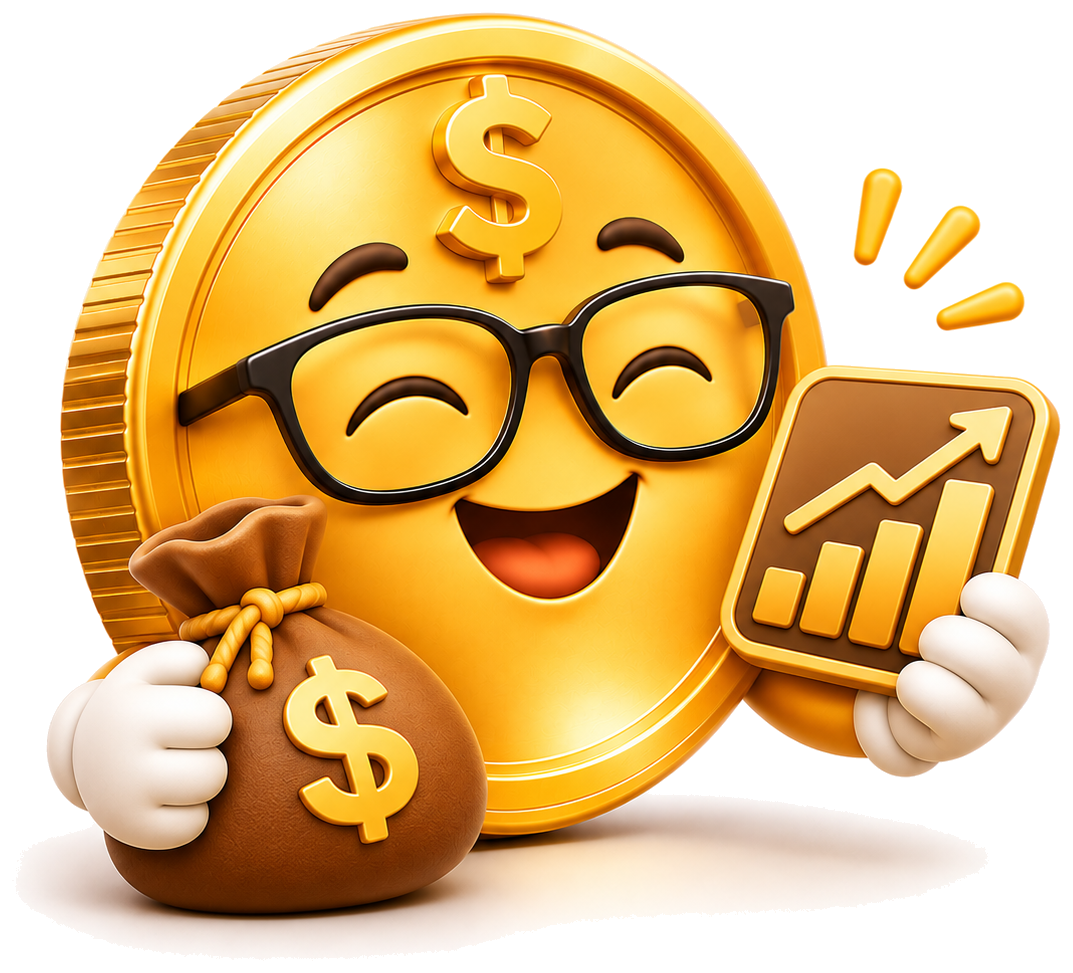
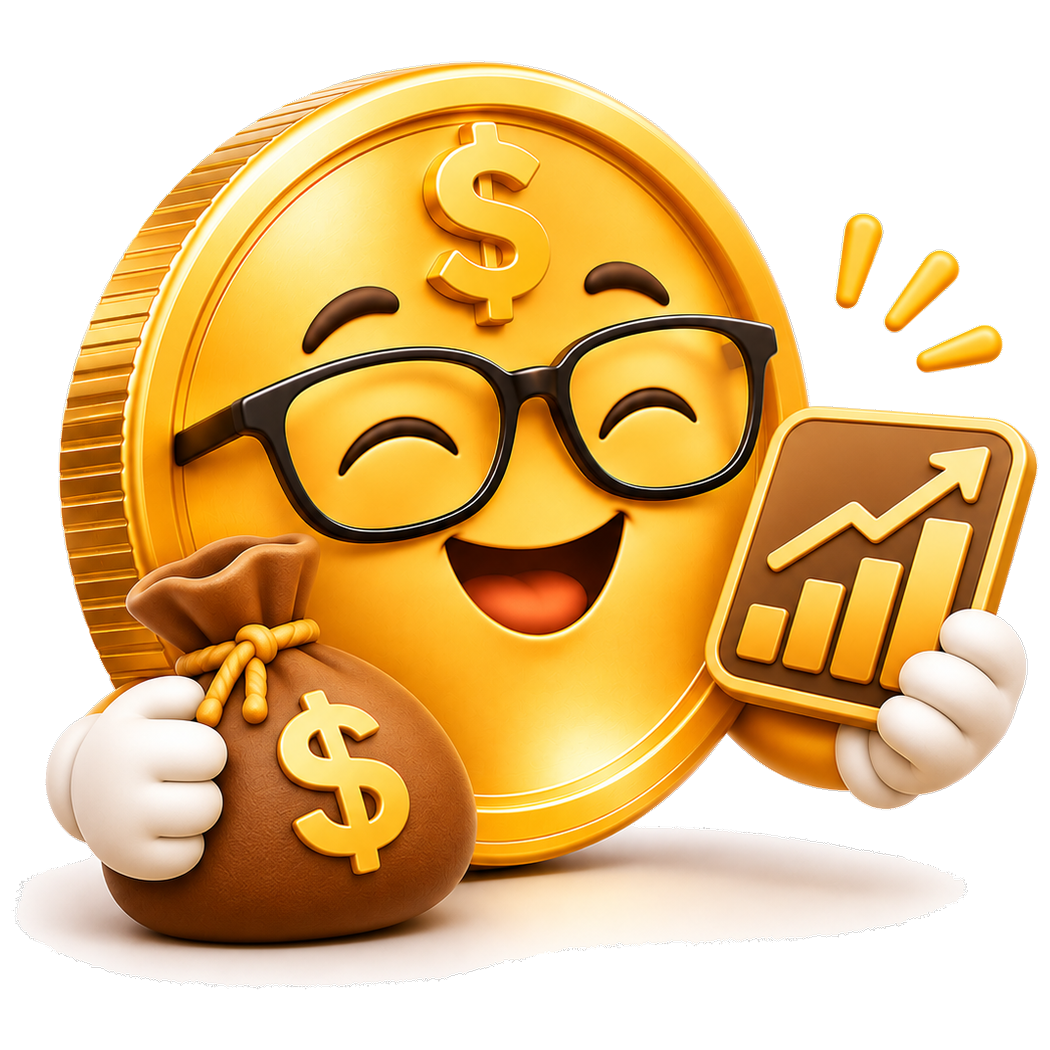
Simplify Money Tips card, shrink page footer, color home balance
Money Tips:
- Removed the footer nav bar entirely (prev arrow + dots) — clicking
  the card is now the only way to advance, kept simpler per request.
- Autoplay interval bumped from 5s to 12s.
- Card background changed to light beige (#faf6ef) instead of white.
- Normalized all 5 mascot icons onto identical 1050x1050 canvases
  so they render at consistent visual scale across cards instead of
  varying with each source image's original aspect ratio.

Footer: reduced padding further (including a forgotten mobile
@media override that was reverting it to a much taller 2.5rem), and
matched its background to the page background instead of a slightly
different off-white, removing any visible seam.

Daily Spending chart: increased right padding again (40 -> 52) to
shift it further left per follow-up request.

Home page: Balance tile value now colors green when positive, red
when negative, matching the pattern used elsewhere in the app.

diff --git a/index.js b/index.js
@@ -178,7 +178,13 @@ function renderHomeBalance(transactions) {
   const monthTx = transactions.filter(tx => (tx.date || '').slice(0, 7) === month);
   const income   = monthTx.filter(tx => tx.type === 'income').reduce((s, tx) => s + Number(tx.amount), 0);
   const expenses = monthTx.filter(tx => tx.type === 'expense').reduce((s, tx) => s + Number(tx.amount), 0);
-  document.getElementById('home-tile-balance-val').textContent  = fmtCurrency(income - expenses);
+  const balance  = income - expenses;
+
+  const balanceEl = document.getElementById('home-tile-balance-val');
+  balanceEl.textContent = fmtCurrency(balance);
+  balanceEl.classList.toggle('positive', balance > 0);
+  balanceEl.classList.toggle('negative', balance < 0);
+
   document.getElementById('home-tile-expenses-val').textContent = fmtCurrency(expenses);
 }
 
@@ -475,7 +481,7 @@ async function renderDailySpendingChart(transactions, investments) {
     options: {
       responsive: true,
       maintainAspectRatio: false,
-      layout: { padding: { top: 60, right: 40 } },
+      layout: { padding: { top: 60, right: 52 } },
       interaction: { mode: 'index', intersect: false },
       animation: { duration: 600, easing: 'easeOutQuart' },
       plugins: {
@@ -773,14 +779,8 @@ function pickRandomMoneyTips() {
 }
 
 const MONEY_TIP_MASCOTS = [mtMascot1, mtMascot2, mtMascot3, mtMascot4, mtMascot5];
-const MONEY_TIPS_AUTOPLAY_MS = 5000;
+const MONEY_TIPS_AUTOPLAY_MS = 12000;
 let moneyTipsAutoplayTimer = null;
-
-function renderMoneyTipDots() {
-  document.getElementById('mt-dots').innerHTML = currentMoneyTips.map((_, i) =>
-    `<span class="mt-dot${i === currentMoneyTipIdx ? ' active' : ''}" data-idx="${i}"></span>`
-  ).join('');
-}
 
 function renderMoneyTip() {
   const tip = currentMoneyTips[currentMoneyTipIdx];
@@ -789,7 +789,6 @@ function renderMoneyTip() {
   document.getElementById('mt-text').textContent = tip.text;
   document.getElementById('mt-callout-text').textContent = tip.callout;
   document.getElementById('mt-art-img').src = MONEY_TIP_MASCOTS[currentMoneyTipIdx % MONEY_TIP_MASCOTS.length];
-  renderMoneyTipDots();
 
   // Re-trigger the slide-in animation on every tip change (not just once on load).
   // Animates .mt-card-top as a single unit so the text and art slide together.
@@ -812,11 +811,6 @@ function advanceMoneyTip() {
   renderMoneyTip();
 }
 
-function goToMoneyTip(idx) {
-  currentMoneyTipIdx = (idx + currentMoneyTips.length) % currentMoneyTips.length;
-  renderMoneyTip();
-}
-
 function restartMoneyTipsAutoplay() {
   if (moneyTipsAutoplayTimer) clearInterval(moneyTipsAutoplayTimer);
   moneyTipsAutoplayTimer = setInterval(advanceMoneyTip, MONEY_TIPS_AUTOPLAY_MS);
@@ -828,21 +822,7 @@ function initMoneyTips() {
   renderMoneyTip();
   restartMoneyTipsAutoplay();
 
-  document.getElementById('mt-prev').addEventListener('click', e => {
-    e.stopPropagation(); // don't also trigger the card's click-to-advance below
-    goToMoneyTip(currentMoneyTipIdx - 1);
-    restartMoneyTipsAutoplay();
-  });
-
-  document.getElementById('mt-dots').addEventListener('click', e => {
-    const dot = e.target.closest('.mt-dot');
-    if (!dot) return;
-    e.stopPropagation();
-    goToMoneyTip(Number(dot.dataset.idx));
-    restartMoneyTipsAutoplay();
-  });
-
-  // Clicking anywhere else on the card skips ahead to the next tip.
+  // Clicking the card skips ahead to the next tip.
   document.getElementById('mt-card').addEventListener('click', () => {
     advanceMoneyTip();
     restartMoneyTipsAutoplay();

diff --git a/style.css b/style.css
@@ -2254,13 +2254,13 @@ footer .logo-img {
 
 /* === Footer === */
 footer {
-  background: #f5f5f7;
-  padding: 1.5rem 2rem;
+  background: var(--bg);
+  padding: 1rem 2rem;
   text-align: center;
   display: flex;
   flex-direction: column;
   align-items: center;
-  gap: 0.6rem;
+  gap: 0.4rem;
 }
 
 .footer-tagline {
@@ -5651,7 +5651,7 @@ input[type="date"].filter-date {
 
   /* Footer */
   footer {
-    padding: 2.5rem 1.25rem;
+    padding: 1rem 1.25rem;
   }
   .footer-tagline {
     font-size: 0.85rem;
@@ -8510,6 +8510,8 @@ input[type="date"].filter-date {
 .home-tile-chevron { color: var(--muted); flex-shrink: 0; }
 .home-tile-chevron svg { width: 16px; height: 16px; }
 .home-tile-value { font-size: 1.45rem; font-weight: 800; color: var(--heading); letter-spacing: -0.02em; }
+.home-tile-value.positive { color: #1a9a4a; }
+.home-tile-value.negative { color: #d8402e; }
 .home-tile-sub { font-size: 0.78rem; font-weight: 700; }
 .home-tile-sub.positive { color: #1a9a4a; }
 .home-tile-sub.negative { color: #d8402e; }
@@ -8595,7 +8597,7 @@ input[type="date"].filter-date {
 }
 
 .mt-card {
-  background: var(--surface);
+  background: #faf6ef;
   border: 1px solid var(--border);
   border-radius: 20px;
   padding: 1.5rem;
@@ -8657,35 +8659,6 @@ input[type="date"].filter-date {
   justify-content: center;
 }
 .mt-card-art img { max-width: 100%; max-height: 100%; width: auto; height: auto; object-fit: contain; object-position: center; display: block; margin: 0 auto; }
-
-.mt-footer {
-  display: flex;
-  align-items: center;
-  justify-content: center;
-  gap: 1rem;
-  margin-top: 1.4rem;
-  padding-top: 1.1rem;
-  border-top: 1px solid var(--border);
-  position: relative;
-}
-.mt-dots { display: flex; align-items: center; gap: 0.4rem; }
-.mt-dot { width: 7px; height: 7px; border-radius: 50%; background: var(--border); transition: background 0.2s, transform 0.2s; cursor: pointer; }
-.mt-dot.active { background: var(--accent); transform: scale(1.3); }
-.mt-prev-btn {
-  position: absolute;
-  left: 0;
-  width: 38px; height: 38px;
-  border-radius: 50%;
-  border: 1px solid var(--border);
-  background: var(--surface);
-  color: var(--heading);
-  display: flex; align-items: center; justify-content: center;
-  cursor: pointer;
-  transition: border-color 0.15s, background 0.15s;
-  flex-shrink: 0;
-}
-.mt-prev-btn:hover { border-color: var(--accent); background: var(--accent-light); }
-.mt-prev-btn svg { width: 16px; height: 16px; }
 
 @keyframes mtSlideIn {
   from { opacity: 0; transform: translateX(45px); }

diff --git a/index.html b/index.html
@@ -376,13 +376,6 @@
             <img src="" alt="" id="mt-art-img" />
           </div>
         </div>
-
-        <div class="mt-footer">
-          <button type="button" class="mt-prev-btn" id="mt-prev" aria-label="Previous tip">
-            <svg viewBox="0 0 20 20" fill="none" stroke="currentColor" stroke-width="2" stroke-linecap="round" stroke-linejoin="round"><path d="M12 4l-6 6 6 6"/></svg>
-          </button>
-          <div class="mt-dots" id="mt-dots"></div>
-        </div>
       </div>
     </section>
 
